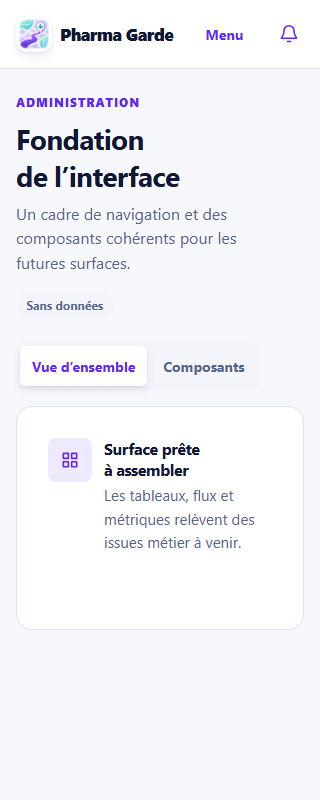
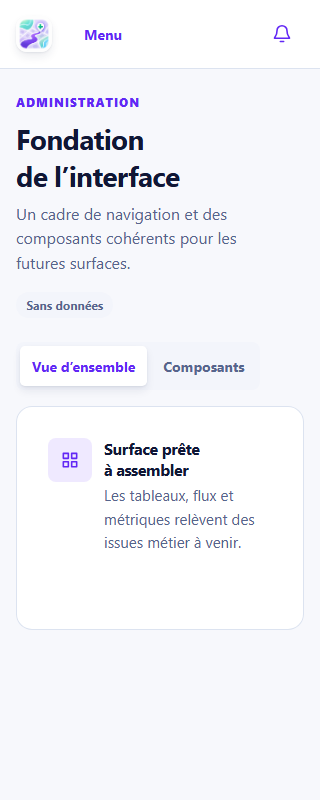
fix(web): make tabs keyboard interactive

Changed region(s): [[0.1875, 0.0312, 0.5625, 0.0625], [0.625, 0.0312, 0.75, 0.0625], [0.8438, 0.0312, 0.9375, 0.0625]]

diff --git a/apps/web/src/components/primitives.tsx b/apps/web/src/components/primitives.tsx
@@ -1,7 +1,9 @@
 import {
   useId,
+  useRef,
   type ButtonHTMLAttributes,
   type InputHTMLAttributes,
+  type KeyboardEvent,
   type ReactNode,
 } from "react";
 import { Icon, type IconName } from "./Icon";
@@ -115,24 +117,84 @@ export function Badge({
 }) {
   return <span className={`badge badge--${tone}`}>{children}</span>;
 }
-export type Tab = { id: string; label: string };
+type TabWithoutPanel = {
+  id: string;
+  label: string;
+  panelId?: never;
+  tabId?: never;
+};
+type TabWithPanel = {
+  id: string;
+  label: string;
+  panelId: string;
+  tabId: string;
+};
+export type Tab = TabWithoutPanel | TabWithPanel;
 export function Tabs({
   activeId,
   items,
   label,
+  onSelectionChange,
 }: {
   activeId: string;
   items: Tab[];
   label: string;
+  onSelectionChange: (id: string) => void;
 }) {
+  const tabRefs = useRef<Array<HTMLButtonElement | null>>([]);
+  const activeIndex = Math.max(
+    0,
+    items.findIndex((item) => item.id === activeId),
+  );
+
+  const selectTab = (index: number) => {
+    const item = items[index];
+    if (!item) return;
+    onSelectionChange(item.id);
+    tabRefs.current[index]?.focus();
+  };
+
+  const handleKeyDown = (
+    event: KeyboardEvent<HTMLButtonElement>,
+    index: number,
+  ) => {
+    let nextIndex: number | undefined;
+    switch (event.key) {
+      case "ArrowLeft":
+        nextIndex = (index - 1 + items.length) % items.length;
+        break;
+      case "ArrowRight":
+        nextIndex = (index + 1) % items.length;
+        break;
+      case "Home":
+        nextIndex = 0;
+        break;
+      case "End":
+        nextIndex = items.length - 1;
+        break;
+      default:
+        return;
+    }
+    event.preventDefault();
+    selectTab(nextIndex);
+  };
+
   return (
     <div aria-label={label} className="tabs" role="tablist">
-      {items.map((item) => (
+      {items.map((item, index) => (
         <button
-          aria-selected={item.id === activeId}
+          aria-controls={item.panelId}
+          aria-selected={index === activeIndex}
           className="tabs__tab"
+          id={item.tabId}
           key={item.id}
+          onClick={() => onSelectionChange(item.id)}
+          onKeyDown={(event) => handleKeyDown(event, index)}
+          ref={(element) => {
+            tabRefs.current[index] = element;
+          }}
           role="tab"
+          tabIndex={index === activeIndex ? 0 : -1}
           type="button"
         >
           {item.label}

diff --git a/tests/e2e/shells.spec.ts b/tests/e2e/shells.spec.ts
@@ -67,3 +67,37 @@ test("the narrow administration navigation opens from the keyboard", async ({
     page.getByRole("navigation", { name: "Navigation administration" }),
   ).toBeVisible();
 });
+
+test("administration tabs support pointer and keyboard selection", async ({
+  page,
+}) => {
+  await page.goto("/admin");
+  const tablist = page.getByRole("tablist", {
+    name: "Sections de démonstration",
+  });
+  const overviewTab = tablist.getByRole("tab", { name: "Vue d’ensemble" });
+  const componentsTab = tablist.getByRole("tab", { name: "Composants" });
+
+  await expect(overviewTab).toHaveAttribute("aria-selected", "true");
+  await expect(overviewTab).toHaveAttribute("tabindex", "0");
+  await expect(componentsTab).toHaveAttribute("aria-selected", "false");
+  await expect(componentsTab).toHaveAttribute("tabindex", "-1");
+
+  await componentsTab.click();
+  await expect(componentsTab).toHaveAttribute("aria-selected", "true");
+  await expect(componentsTab).toHaveAttribute("tabindex", "0");
+  await expect(overviewTab).toHaveAttribute("tabindex", "-1");
+
+  await componentsTab.press("Home");
+  await expect(overviewTab).toBeFocused();
+  await expect(overviewTab).toHaveAttribute("aria-selected", "true");
+  await overviewTab.press("ArrowRight");
+  await expect(componentsTab).toBeFocused();
+  await expect(componentsTab).toHaveAttribute("aria-selected", "true");
+  await componentsTab.press("ArrowLeft");
+  await expect(overviewTab).toBeFocused();
+  await expect(overviewTab).toHaveAttribute("aria-selected", "true");
+  await overviewTab.press("End");
+  await expect(componentsTab).toBeFocused();
+  await expect(componentsTab).toHaveAttribute("aria-selected", "true");
+});

diff --git a/apps/web/src/App.test.ts b/apps/web/src/App.test.ts
@@ -2,7 +2,7 @@ import { createElement } from "react";
 import { renderToStaticMarkup } from "react-dom/server";
 import { describe, expect, it } from "vitest";
 import { isAdminPath } from "./App";
-import { Button, Field, Switch } from "./components/primitives";
+import { Button, Field, Switch, Tabs } from "./components/primitives";
 
 describe("route shell selection", () => {
   it("reserves the administration shell for administration routes", () => {
@@ -35,5 +35,35 @@ describe("accessible primitives", () => {
     );
     expect(markup).toContain('role="switch"');
     expect(markup).toContain('aria-checked="true"');
+  });
+
+  it("links tabs only when a real panel is declared", () => {
+    const linkedMarkup = renderToStaticMarkup(
+      createElement(Tabs, {
+        activeId: "overview",
+        items: [
+          {
+            id: "overview",
+            label: "Vue d’ensemble",
+            panelId: "overview-panel",
+            tabId: "overview-tab",
+          },
+        ],
+        label: "Sections",
+        onSelectionChange: () => undefined,
+      }),
+    );
+    const unlinkedMarkup = renderToStaticMarkup(
+      createElement(Tabs, {
+        activeId: "overview",
+        items: [{ id: "overview", label: "Vue d’ensemble" }],
+        label: "Sections",
+        onSelectionChange: () => undefined,
+      }),
+    );
+
+    expect(linkedMarkup).toContain('id="overview-tab"');
+    expect(linkedMarkup).toContain('aria-controls="overview-panel"');
+    expect(unlinkedMarkup).not.toContain("aria-controls");
   });
 });

diff --git a/apps/web/src/layouts/AdminShell.tsx b/apps/web/src/layouts/AdminShell.tsx
@@ -1,3 +1,4 @@
+import { useState } from "react";
 import { Icon, type IconName } from "../components/Icon";
 import { Badge, Card, EmptyState, Field, Tabs } from "../components/primitives";
 
@@ -47,6 +48,8 @@ function Navigation({
 }
 
 export function AdminShell({ pathname }: AdminShellProps) {
+  const [activeTabId, setActiveTabId] = useState("overview");
+
   return (
     <div className="admin-shell" data-shell="admin">
       <a className="skip-link" href="#admin-content">
@@ -108,12 +111,13 @@ export function AdminShell({ pathname }: AdminShellProps) {
           <Badge tone="neutral">Sans données</Badge>
         </div>
         <Tabs
-          activeId="overview"
+          activeId={activeTabId}
           items={[
             { id: "overview", label: "Vue d’ensemble" },
             { id: "components", label: "Composants" },
           ]}
           label="Sections de démonstration"
+          onSelectionChange={setActiveTabId}
         />
         <Card className="admin-placeholder">
           <EmptyState icon="dashboard" title="Surface prête à assembler">
